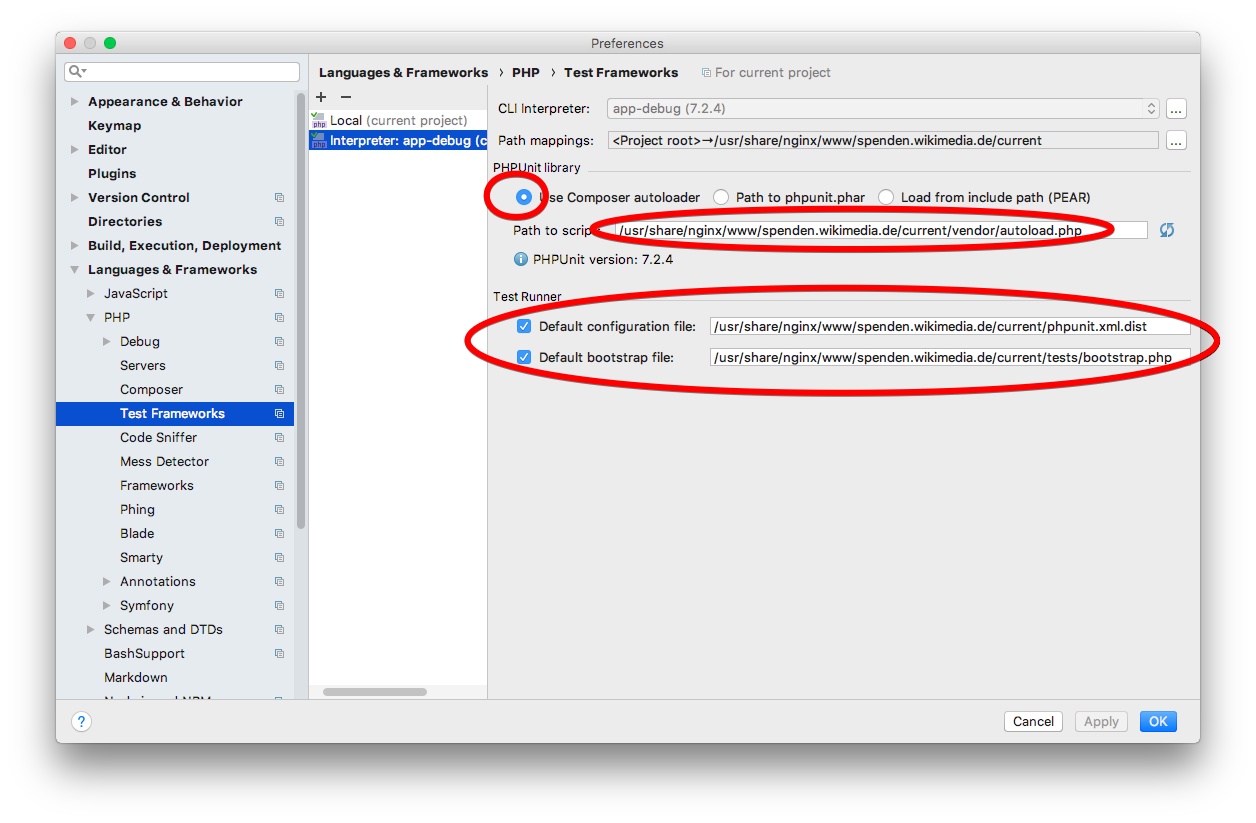
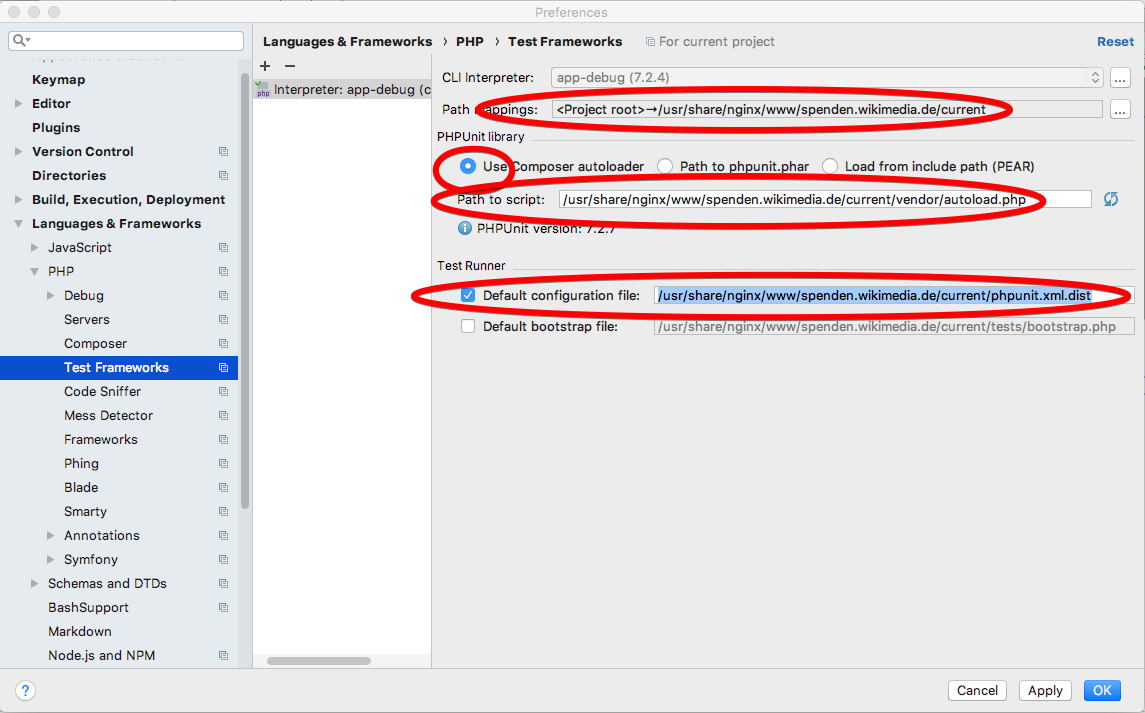
Improve Xdebug configuration documentation

Changed region(s): [[0.0, 0.0, 1.0, 1.0]]

diff --git a/doc/HOWTO_Use_Xdebug_and_PHPStorm.md b/doc/HOWTO_Use_Xdebug_and_PHPStorm.md
@@ -1,4 +1,4 @@
-# How to use XDebug in the Docker environment with PHPStorm 
+# How to use XDebug in the Docker environment with PHPStorm
 
 ## Install the required PHPStorm Plugins
 In the "Plugins" section of the PHPStorm preferences make sure that you have installed the following Plugins:
@@ -29,7 +29,9 @@ You need to add the server name you configured in `PHP_IDE_CONFIG` the NGinX con
 Enter `spenden.wikimedia.de` as the server name, `8082` as the port and check the "Use Path mappings" box. Map your local path to `/usr/share/nginx/www/spenden.wikimedia.de/current/`
 
 ## Add PHPUnit configuration
-In the PHPStorm preferences, go to "Languages & Frameworks -> PHP -> Server". Click the plus sign in the upper left corner to create a new PHPUnit configuration. Choose "PHPUnit by remote interpreter". After you created it, make sure that the path mapping is correct, check "Use Composer autoloader" and check if the "Path to script" points to the path-mapped autoloader file.
+In the PHPStorm preferences, go to "Languages & Frameworks -> PHP -> Testing Framework". Click the plus sign in the upper left corner to create a new PHPUnit configuration. Choose "PHPUnit by remote interpreter". After you created it, make sure that the path mapping is correct, check "Use Composer autoloader" and check if the "Path to script" points to the path-mapped autoloader file.
+
+Also check the "Default configuration file" and use the path `/usr/share/nginx/www/spenden.wikimedia.de/current/phpunit.xml.dist`
 
 ![PHPUnit configuration](images/phpunit_config.png)
 
